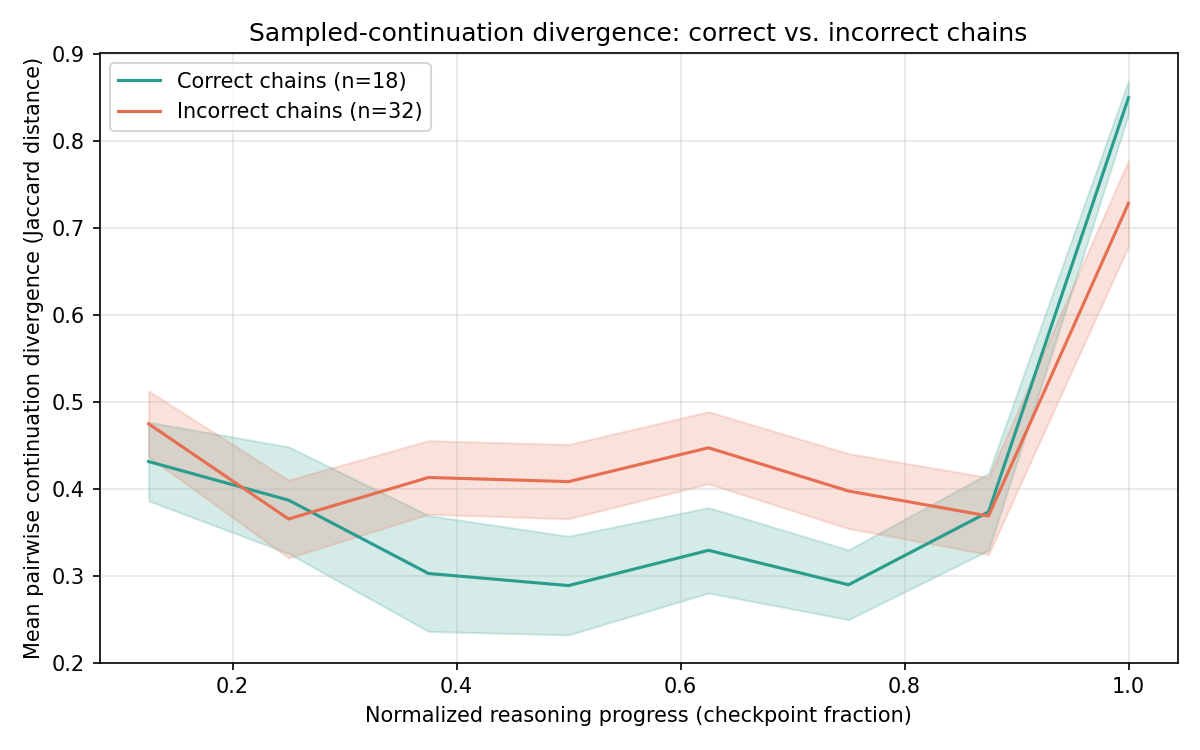
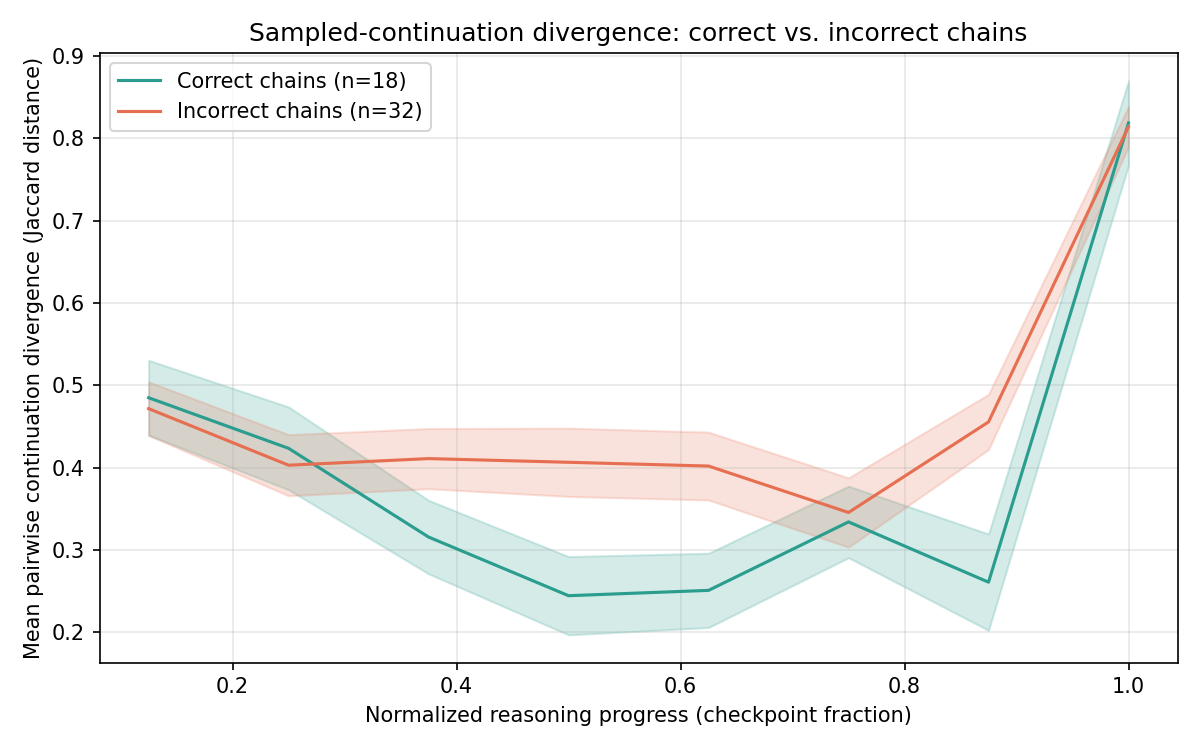
Experiment 2 bug-fixed re-run is a clean null; update summary and README

diff --git a/README.md b/README.md
@@ -65,6 +65,16 @@ see `src/variance_metrics.py::align_trajectory`.
 See `experiments/exp1_variance_trajectories.md` for the full experimental design and
 `src/` for the implementation.
 
+**Experiment 1 result (n=50, token entropy):** null result — no evidence this
+signature exists in mean per-step token entropy at this scale. See
+`results/exp1_summary.md` for full details and the label-shuffle control that
+backs this up.
+
+**Experiment 2 (in progress):** tests an alternative operationalization —
+divergence between independently-sampled continuations branched from fixed
+checkpoints along each chain, rather than single-sample token entropy. See
+`experiments/exp2_sampled_continuation_variance.md`.
+
 ## Repository structure
 
 ```
@@ -73,14 +83,20 @@ llm-reasoning-variance-collapse/
 ├── LICENSE
 ├── requirements.txt
 ├── src/
-│   ├── generate_chains.py     # generate reasoning chains + capture token distributions
-│   ├── variance_metrics.py    # entropy / logit-margin / trajectory alignment
-│   ├── detect_signature.py    # peak/collapse detection + statistical tests
-│   └── run_experiment.py      # orchestrates end-to-end run
+│   ├── generate_chains.py        # generate reasoning chains + capture token distributions
+│   ├── variance_metrics.py       # entropy / logit-margin / trajectory alignment
+│   ├── continuation_divergence.py # exp2: divergence between sampled continuations
+│   ├── detect_signature.py       # peak/collapse detection + statistical tests
+│   ├── run_experiment.py         # exp1 orchestration
+│   ├── run_experiment2.py        # exp2 orchestration
+│   ├── plot_results.py           # exp1 plotting
+│   └── plot_results2.py          # exp2 plotting
 ├── experiments/
-│   └── exp1_variance_trajectories.md
+│   ├── exp1_variance_trajectories.md
+│   └── exp2_sampled_continuation_variance.md
 ├── tests/
-│   └── test_variance_metrics.py
+│   ├── test_variance_metrics.py
+│   └── test_continuation_divergence.py
 ├── data/          # cached datasets / generated chains (gitignored, see below)
 └── results/       # plots, tables, run logs (gitignored except summaries)
 ```
@@ -96,7 +112,20 @@ See `results/exp1_summary.md` for the current findings writeup and
 
 ```bash
 pip install -r requirements.txt
-python src/run_experiment.py --model gpt2 --n-samples 200 --dataset gsm8k
+**Status:** Both experiments conducted so far are null results.
+
+- **Experiment 1** (token entropy, n=50): peak-location and post-peak-slope
+  effects sit at ~50th percentile of the shuffle-null distribution — no signal.
+- **Experiment 2** (sampled-continuation divergence, n=50): an apparent
+  post-peak-slope signal (p=0.0078, 99th percentile) was traced to an
+  answer-matching bug contaminating the correct/incorrect split. After fixing
+  the bug and re-running, the effect disappeared (p=0.49, 38.7th percentile).
+  See `results/exp2_summary.md` for the full before/after comparison.
+
+The hypothesis — that output-distribution variance shows an early-peak-then-
+collapse signature predicting reasoning failure — is not supported by either
+experiment conducted so far. Next directions are logged in
+`results/exp2_summary.md`.python src/run_experiment.py --model gpt2 --n-samples 200 --dataset gsm8k
 ```
 
 See `experiments/exp1_variance_trajectories.md` for parameters and expected runtime.

diff --git a/results/exp2_summary.md b/results/exp2_summary.md
@@ -25,6 +25,29 @@ should be treated as provisional until the re-run completes.
   **null-percentile = 99.0%** (clears the 95% bar)
 
 See `results/exp2_trajectories.png` for the mean trajectory plot.
+**Update (3 October 2026):** The answer-matching bug described above has been
+fixed — correctness is now checked by parsing both the extracted and gold
+answers as floats and comparing numerically, rather than via exact string
+equality (`run_experiment.py` and `run_experiment2.py`). Experiment 2 was
+re-run in full (n=50) with the fix in place.
+
+**Result: the apparent signal did not survive the fix.**
+
+| Metric | Before fix (buggy split) | After fix (correct split) |
+|---|---|---|
+| Post-peak slope | p=0.0078, 99th percentile of shuffle-null | p=0.492, 38.7th percentile of shuffle-null |
+| Peak location | p=0.083, 89.2nd percentile of shuffle-null | p=0.651, 36.5th percentile of shuffle-null |
+
+With the correctness labels fixed (18 correct / 32 incorrect, vs. a different
+split under the bug), both metrics now sit comfortably within the shuffle-null
+distribution. The original post-peak-slope result was an artifact of the
+contaminated correct/incorrect split, not a real effect. **Experiment 2 is
+now a clean null, consistent with Experiment 1.**
+
+This is being recorded as a null result rather than reframed or minimized:
+the bug produced a false-positive-looking signal, and fixing it made that
+signal disappear. See "Next steps" below for where the investigation goes
+from here (semantic-embedding divergence, larger model scale).
 
 ## Interpretation
 
